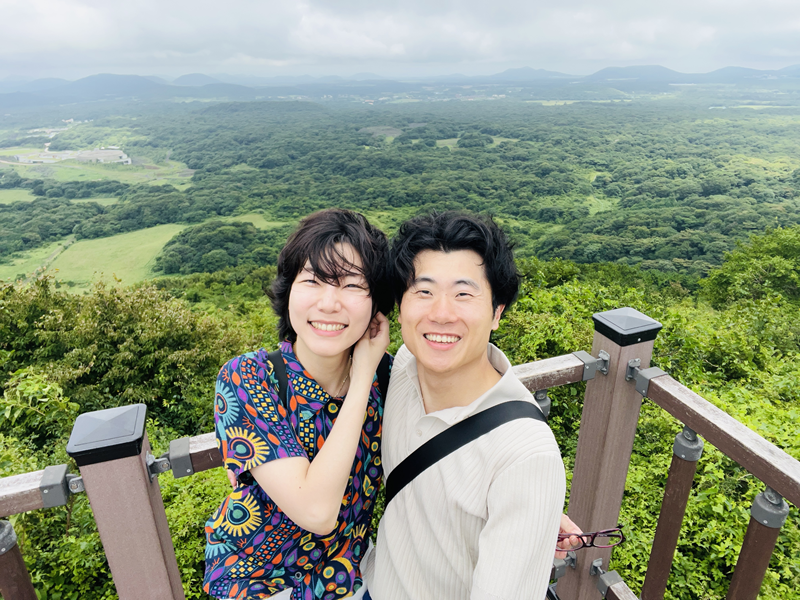
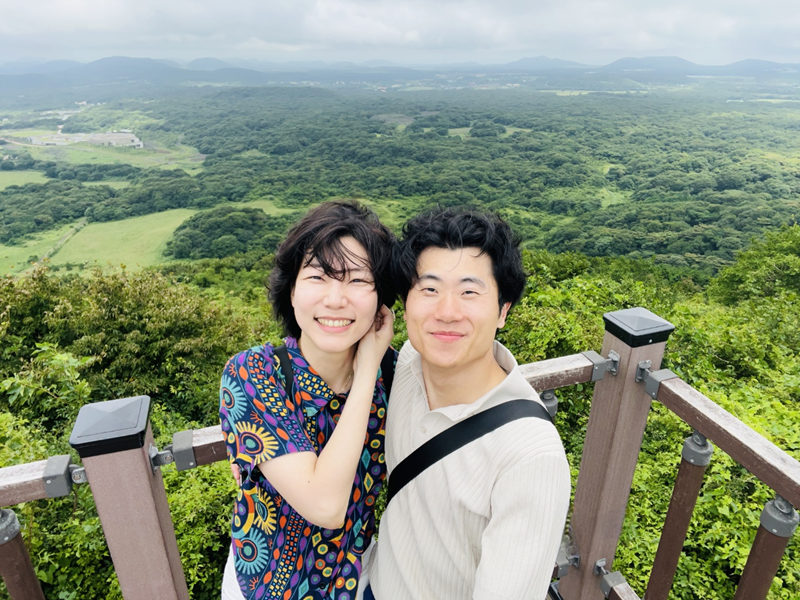
update

diff --git a/src/component/location/index.tsx b/src/component/location/index.tsx
@@ -52,7 +52,7 @@ export const Location = () => {
             - 급행(빨강): 8601, 2500, 8600
             <br />
             - 공항(검정): 6015, 6021, 6702
-            <mark class="background-black text-white">공항버스</mark> 6015, 6021, 6702
+            <span style='color-black'>공항버스</span> 6015, 6021, 6702
           </div>
         </div>
 
